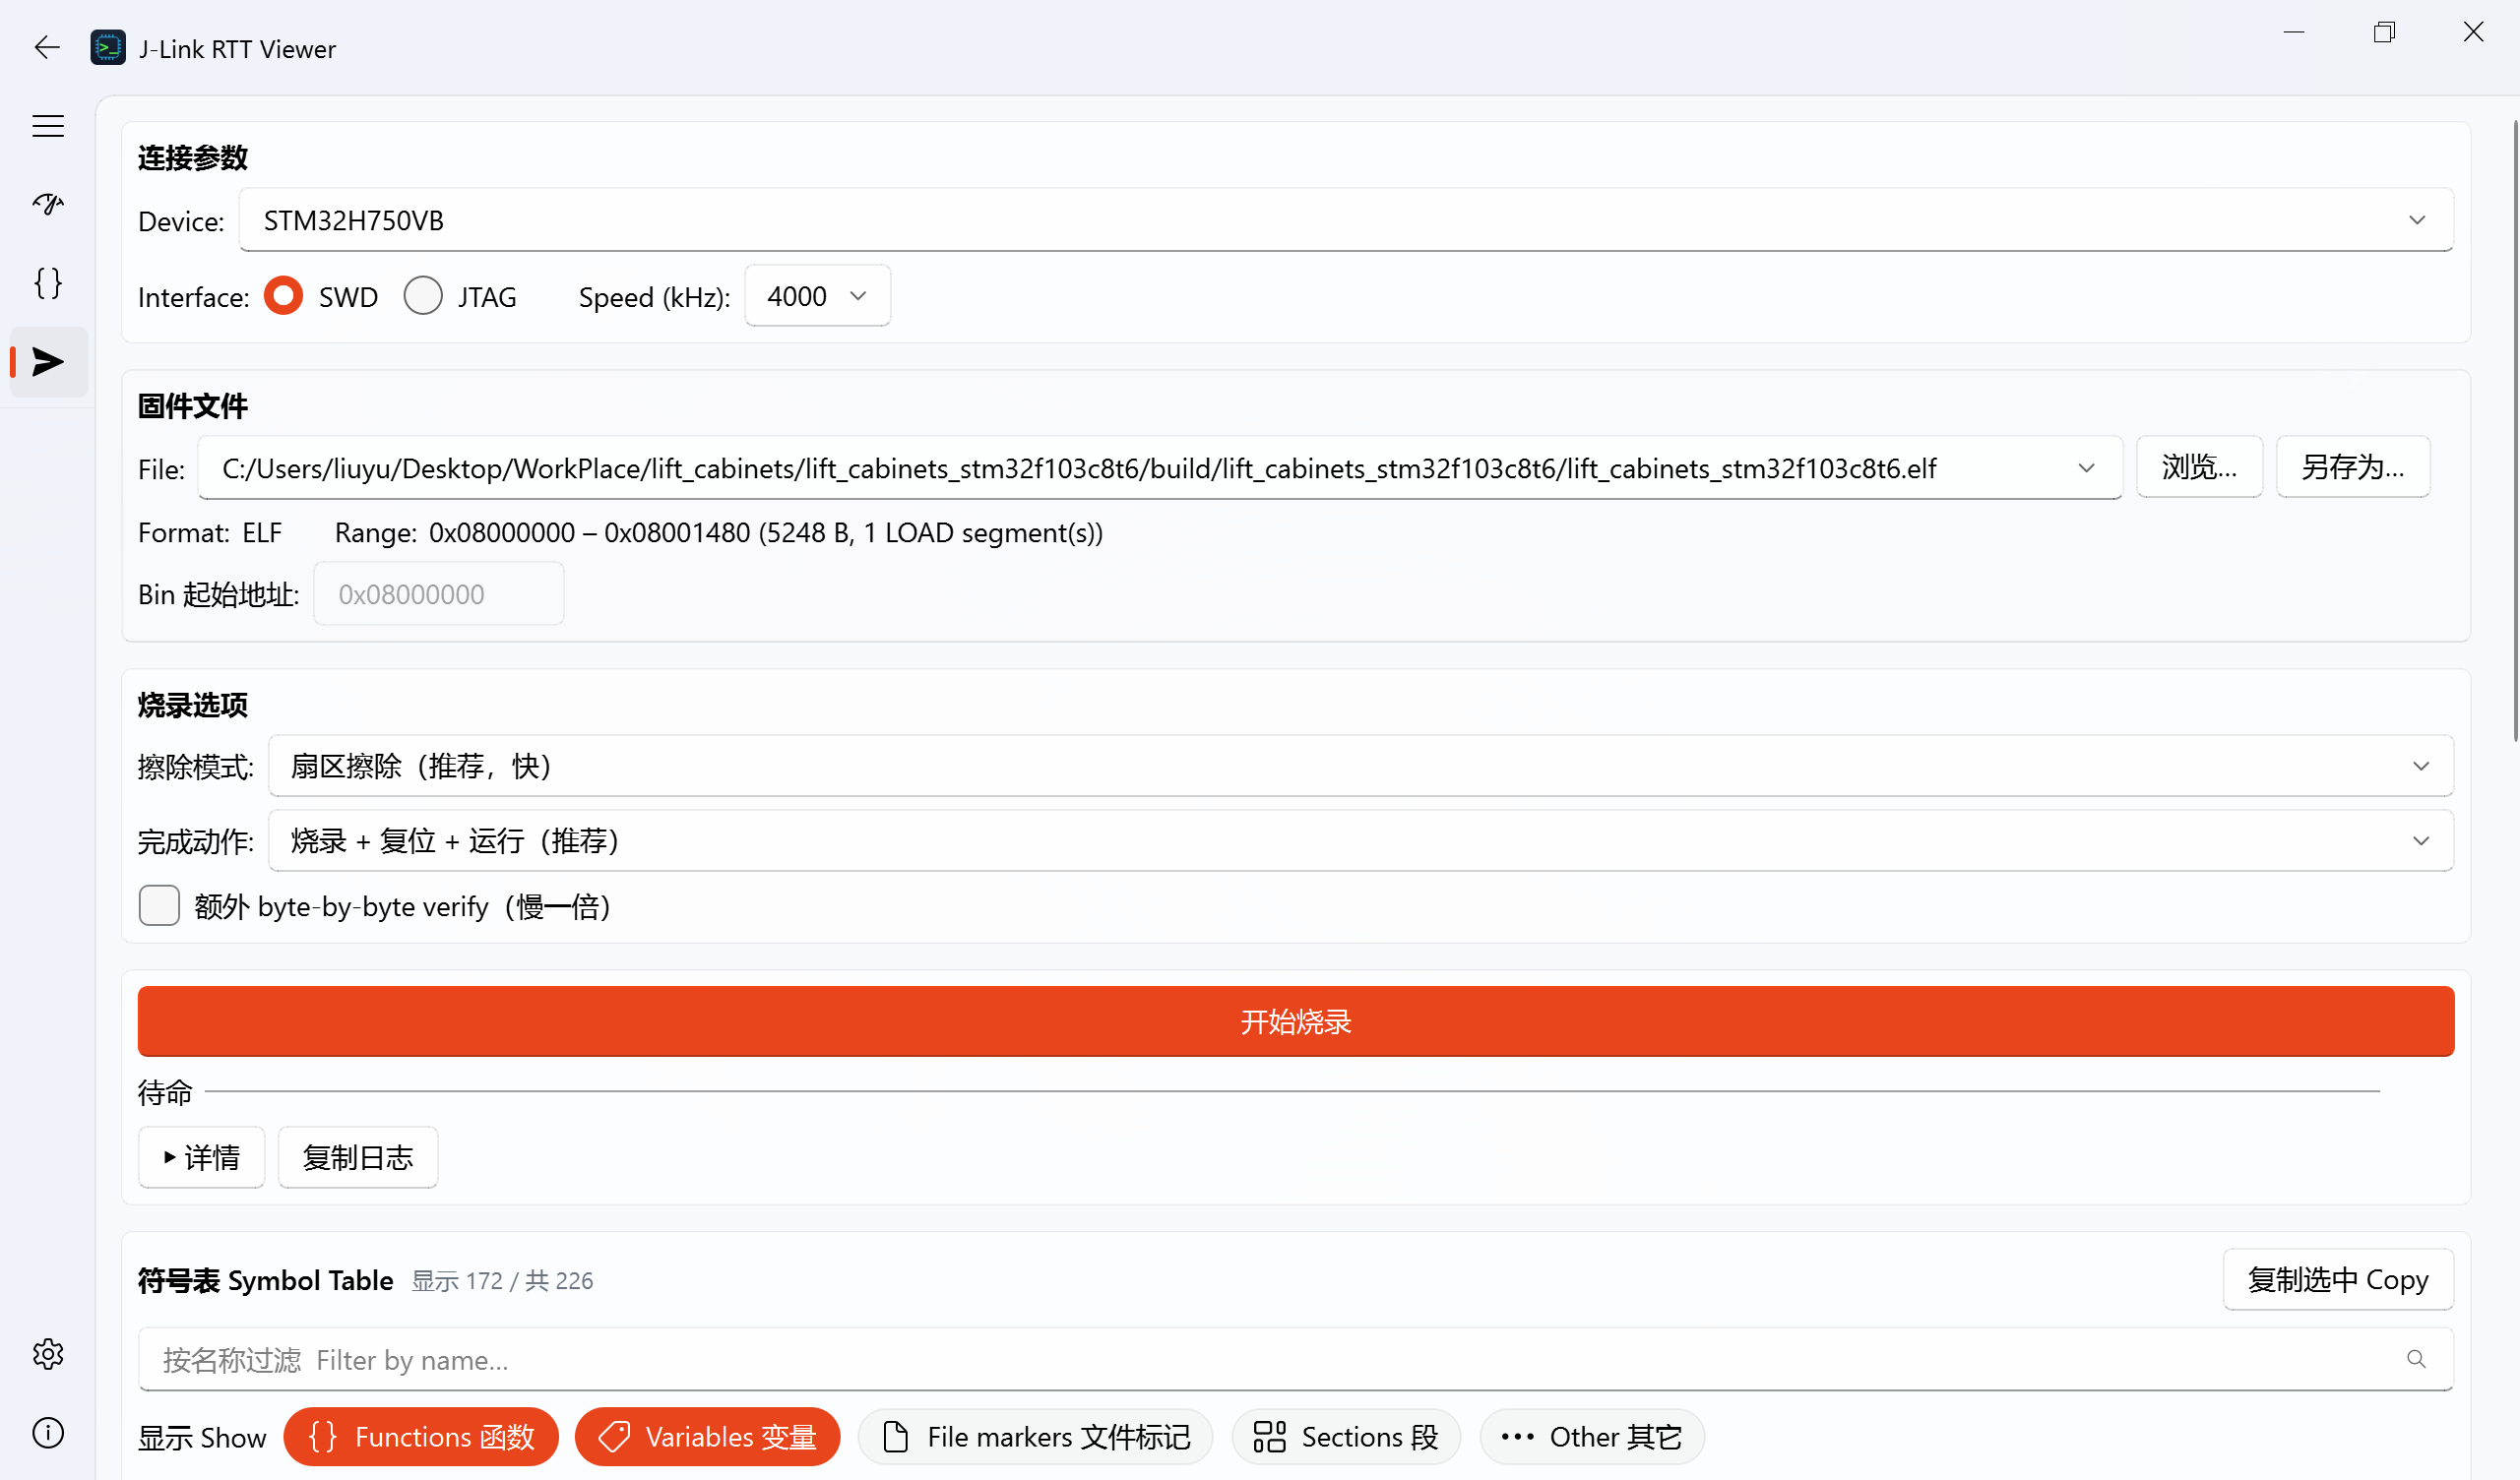
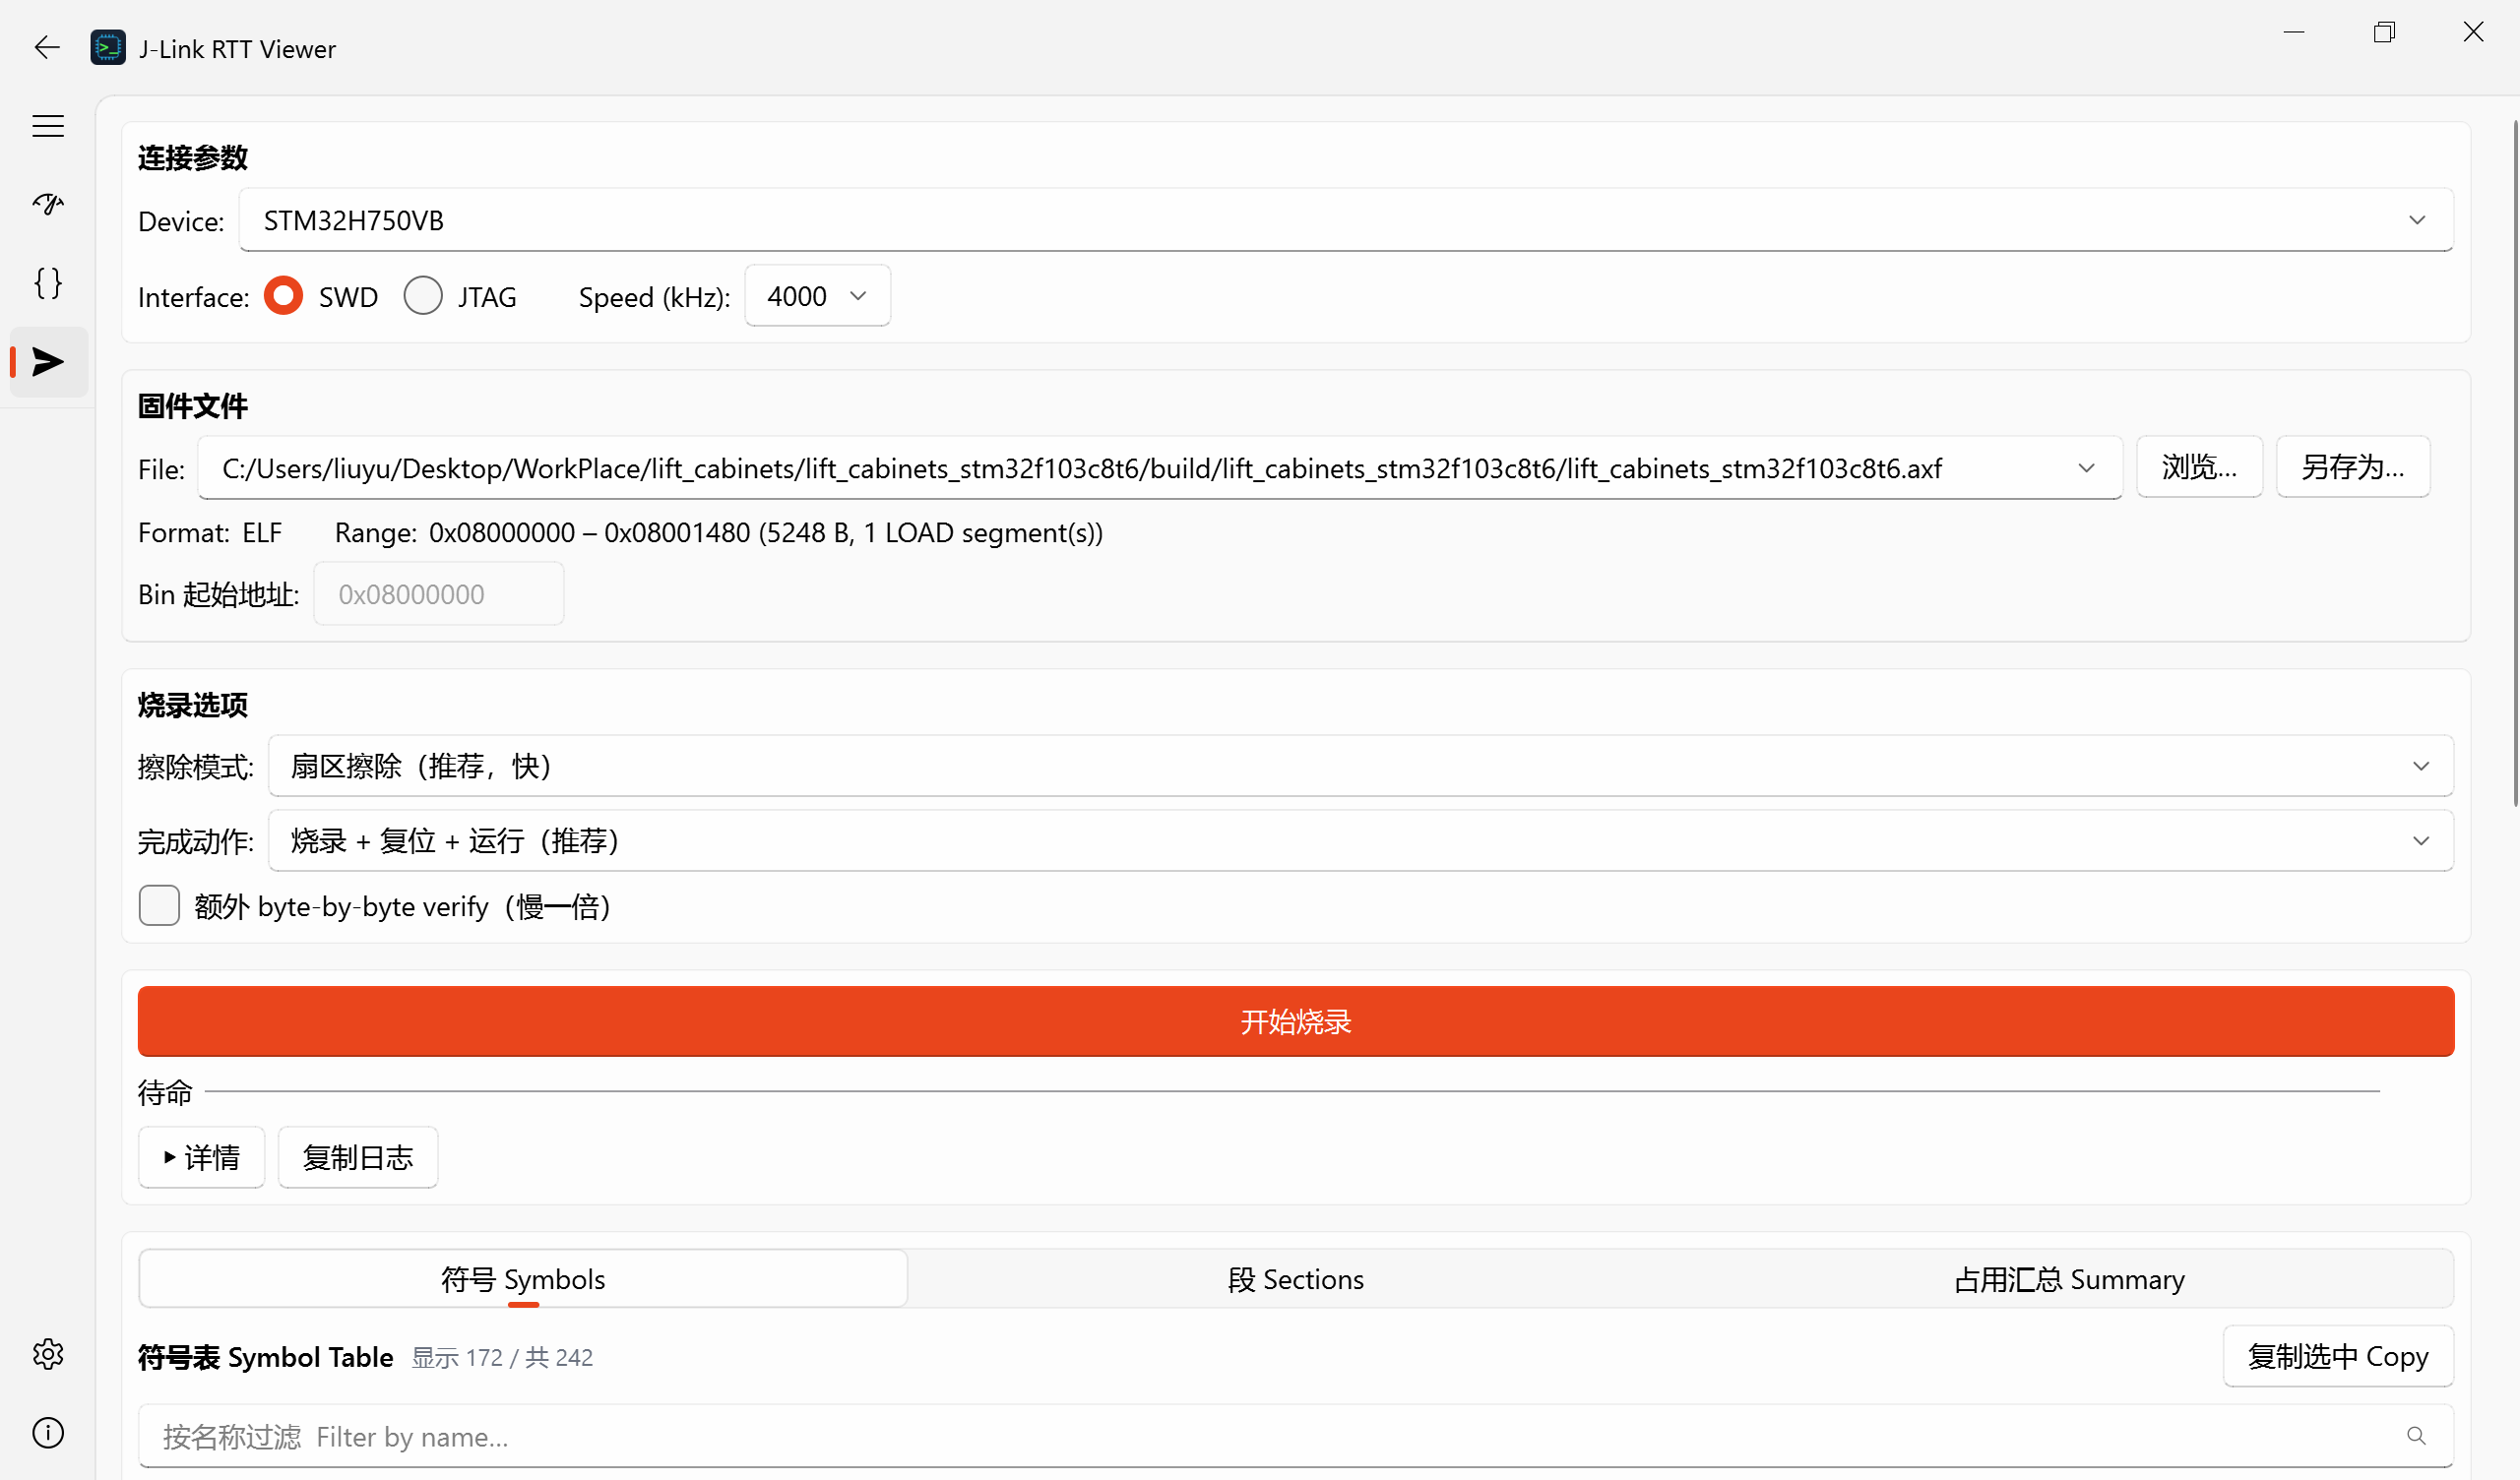
docs(flash): 占用汇总说明去掉「口径」，改为明确的 Berkeley 统计规则
说明文字改写：列出 text/data/bss 各包含哪些段、Flash/RAM 如何相加，
SP/Reset_Handler 注明按 Cortex-M 约定读向量表、非 Cortex-M 无意义。
同步 docs/symbol-table-guide.md 与 CHANGELOG。

diff --git a/src/ui/firmware_analysis_view.py b/src/ui/firmware_analysis_view.py
@@ -140,8 +140,12 @@ class _SummaryView(QWidget):
         layout.addLayout(form2)
 
         self.lbl_hint = CaptionLabel(
-            "占用按 arm-none-eabi-size (Berkeley) 口径汇总。"
-            "初始 SP / Reset_Handler 取最低 LOAD 段前两个字（Cortex-M 向量表）。")
+            "内存占用采用 arm-none-eabi-size 的 Berkeley 统计方式："
+            "text = 已加载的可执行/只读段（.text/.rodata/.isr_vector），"
+            "data = 已初始化可写段（.data），bss = 未初始化段（.bss）；"
+            "Flash = text + data，RAM = data + bss。"
+            "初始 SP / Reset_Handler 按 Cortex-M 约定，从最低 LOAD 段头 8 字节"
+            "读取（向量表第 0、1 个字），非 Cortex-M 架构无意义。")
         self.lbl_hint.setStyleSheet("color: #6b7280;")
         self.lbl_hint.setWordWrap(True)
         layout.addWidget(self.lbl_hint)

diff --git a/CHANGELOG.md b/CHANGELOG.md
@@ -9,7 +9,7 @@
 - **RTT 监控页新增「重置并暂停」按钮**（重置目标按钮旁）：复位 MCU 后让 CPU 停在复位状态（`reset(halt=True)`），不运行、不断开重连，用于调试上电瞬间状态。
 - **固件分析视图扩展**：烧录页底部符号面板用 SegmentedWidget 切换「符号 / 段 / 占用汇总」三视图，共用同一已选 axf/elf。
   - **段 Sections**：列出 SHF_ALLOC 段的地址 / 大小 / RWX / 对齐。
-  - **占用汇总 Summary**：按 arm-none-eabi-size 口径汇总 text/data/bss + Flash/RAM 总量；并显示 Entry point、Cortex-M 初始 SP、Reset_Handler。
+  - **占用汇总 Summary**：采用 arm-none-eabi-size 的 Berkeley 统计方式汇总 text/data/bss + Flash/RAM 总量；并显示 Entry point、Cortex-M 初始 SP、Reset_Handler。
   - **符号视图新增「% 段」列**：每个符号占其所属段大小的百分比（可数值排序）。
 
 ## [0.4.0] — 2026-05-21

diff --git a/docs/symbol-table-guide.md b/docs/symbol-table-guide.md
@@ -16,7 +16,7 @@
 | --- | --- |
 | **符号 Symbols** | 全部符号表（详见下文），含每个符号占所属段大小的「% 段」列。 |
 | **段 Sections** | 占用内存的段（`SHF_ALLOC`）：名称 / 地址 / 大小 / RWX 属性 / 对齐。看 `.text`/`.rodata`/`.data`/`.bss` 各占多少、落在哪。 |
-| **占用汇总 Summary** | 按 `arm-none-eabi-size`（Berkeley）口径汇总：**Flash = text+data**、**RAM = data+bss**，以及 text/data/bss 明细；外加 **Entry point**、Cortex-M **初始 SP**、**Reset_Handler**（取最低 LOAD 段向量表前两个字）。 |
+| **占用汇总 Summary** | 采用 `arm-none-eabi-size` 的 Berkeley 统计方式：**Flash = text+data**、**RAM = data+bss**，以及 text/data/bss 明细；外加 **Entry point**、Cortex-M **初始 SP**、**Reset_Handler**（按 Cortex-M 约定从最低 LOAD 段头读向量表第 0、1 个字，非 Cortex-M 无意义）。 |
 
 ---
 